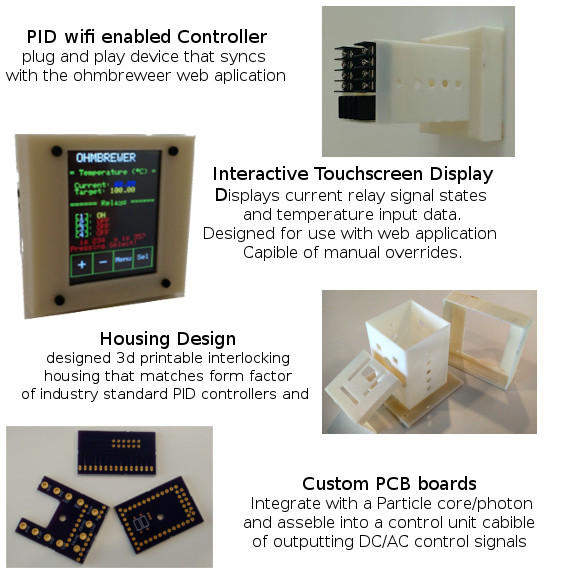
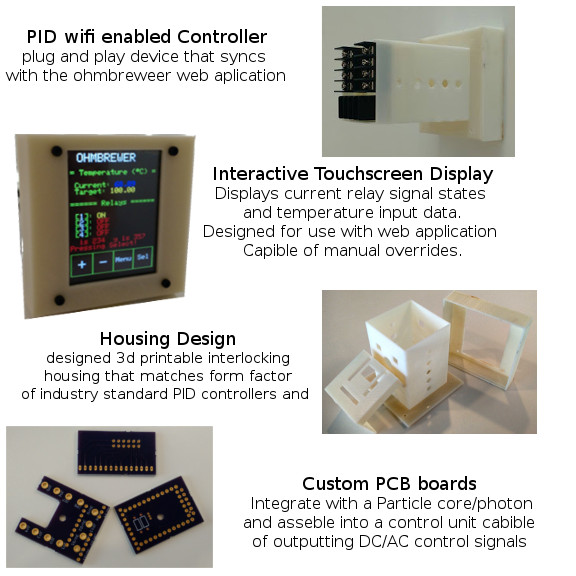
typos and cleaning

Changed region(s): [[0.3438, 0.3125, 0.8438, 0.4688]]

diff --git a/index.html b/index.html
@@ -580,7 +580,7 @@
                             <!-- Project Details Go Here -->
                             <h2>Ohmbrewer Infrastructure</h2>
                             <p class="item-intro text-muted">The completely wireless, automated brewhouse.</p>
-                            <img class="img-responsive img-centered" src="img/portfolio/wifidiagrame.jpg" alt="">
+                            <img class="img-responsive img-centered" src="img/portfolio/ohmbrewlayout.jpg" alt="">
                             <p>Host your own version on a local machine or access a cloud-based server from a variety of devices.</p>
                             <button type="button" class="btn btn-primary" data-dismiss="modal"><i class="fa fa-times"></i>Close</button>
                         </div>
@@ -605,11 +605,12 @@
                         <div class="modal-body">
                             <!-- Project Details Go Here -->
                             <h2>Rhizome - WIFI PID temperature control unit</h2>
-                            <p class="item-intro text-muted">Under construction, just like a DIY house, the website is a bit messy right now</p>
+                            <p class="item-intro text-muted">Below is some of the highlights of hardware development acomplished so far.</p>
                             <img class="img-responsive img-centered" src="img/portfolio/rhizome.jpeg" alt="">
-                            <p>Start Bootstrap's Agency theme is based on Golden, a free PSD website template built by <a href="https://www.behance.net/MathavanJaya">Mathavan Jaya</a>. Golden is a modern and clean one page web template that was made exclusively for Best PSD Freebies. This template has a great portfolio, timeline, and meet your team sections that can be easily modified to fit your needs.</p>
-                            <p>You can download the PSD template in this portfolio sample item at <a href="http://freebiesxpress.com/gallery/golden-free-one-page-web-template/">FreebiesXpress.com</a>.</p>
-                            <button type="button" class="btn btn-primary" data-dismiss="modal"><i class="fa fa-times"></i> Close Project</button>
+                            <p>Thanks to the Southern Tier Startup Alliance's Hardware accelerator program, Ohmbrewer was able
+                                to rapidly prototype and develop the Rhizome control unit integral to the HOPS interface system. Working at Rev Startup Incubator
+                                in Ithaca NY John was able to bring the Rhizome development process to stage one completion five months ahead of schedule. </p>
+                            <button type="button" class="btn btn-primary" data-dismiss="modal"><i class="fa fa-times"></i> Done learning about the controller</button>
                         </div>
                     </div>
                 </div>
@@ -632,9 +633,9 @@
                         <div class="modal-body">
                             <!-- Project Details Go Here -->
                             <h2>PUMP</h2>
-                            <p class="item-intro text-muted">we having been using Open scad to further develop a design we got of the
+                            <p class="item-intro text-muted">we having been using OpenSCAD to further develop a design we got of the
                                 internet to produce a pump head that when hooked into a motor housing also under development is capable
-                                of funtioning in any small scale / Home brewery, and replacing existing unsatisfactory pumps in the processes. </p>
+                                of functioning in any small scale or home brewery, and replacing existing unsatisfactory pumps in the processes. </p>
                             <img class="img-responsive img-centered" src="img/portfolio/openscad.png" alt="">
                             <!--<p>Escape is a free PSD web template built by <a href="https://www.behance.net/MathavanJaya">Mathavan Jaya</a>. Escape is a one page web template that was designed with agencies in mind. This template is ideal for those looking for a simple one page solution to describe your business and offer your services.</p>-->
                             <!--<p>You can download the PSD template in this portfolio sample item at <a href="http://freebiesxpress.com/gallery/escape-one-page-psd-web-template/">FreebiesXpress.com</a>.</p>-->
@@ -661,11 +662,12 @@
                         <div class="modal-body">
                             <!-- Project Details Go Here -->
                             <h2>WEB APPLICATION</h2>
-                            <p class="item-intro text-muted">Under construction, just like a DIY house, the website is a bit messy right now</p>
+                            <p class="item-intro text-muted">Accessible from any wifi enabled device</p>
                             <img class="img-responsive img-centered" src="img/portfolio/ohmbrewerss.JPG" alt="">
-                            <p>Dreams is a free PSD web template built by <a href="https://www.behance.net/MathavanJaya">Mathavan Jaya</a>. Dreams is a modern one page web template designed for almost any purpose. It’s a beautiful template that’s designed with the Bootstrap framework in mind.</p>
-                            <p>You can download the PSD template in this portfolio sample item at <a href="http://freebiesxpress.com/gallery/dreams-free-one-page-web-template/">FreebiesXpress.com</a>.</p>
-                            <button type="button" class="btn btn-primary" data-dismiss="modal"><i class="fa fa-times"></i> Close Project</button>
+                            <p>Ohmbrewer can be used from any device, it scales to fit smaller screens such as smart phones and tablets, while
+                            remaining full size on most computers. Ohmbrewer is compact enough to host yourself on a small server in the brewery, but agile
+                                enough that it can be placed on any remote server and accessed via the internet. </p>
+                            <button type="button" class="btn btn-primary" data-dismiss="modal"><i class="fa fa-times"></i> Close Application Page</button>
                         </div>
                     </div>
                 </div>
